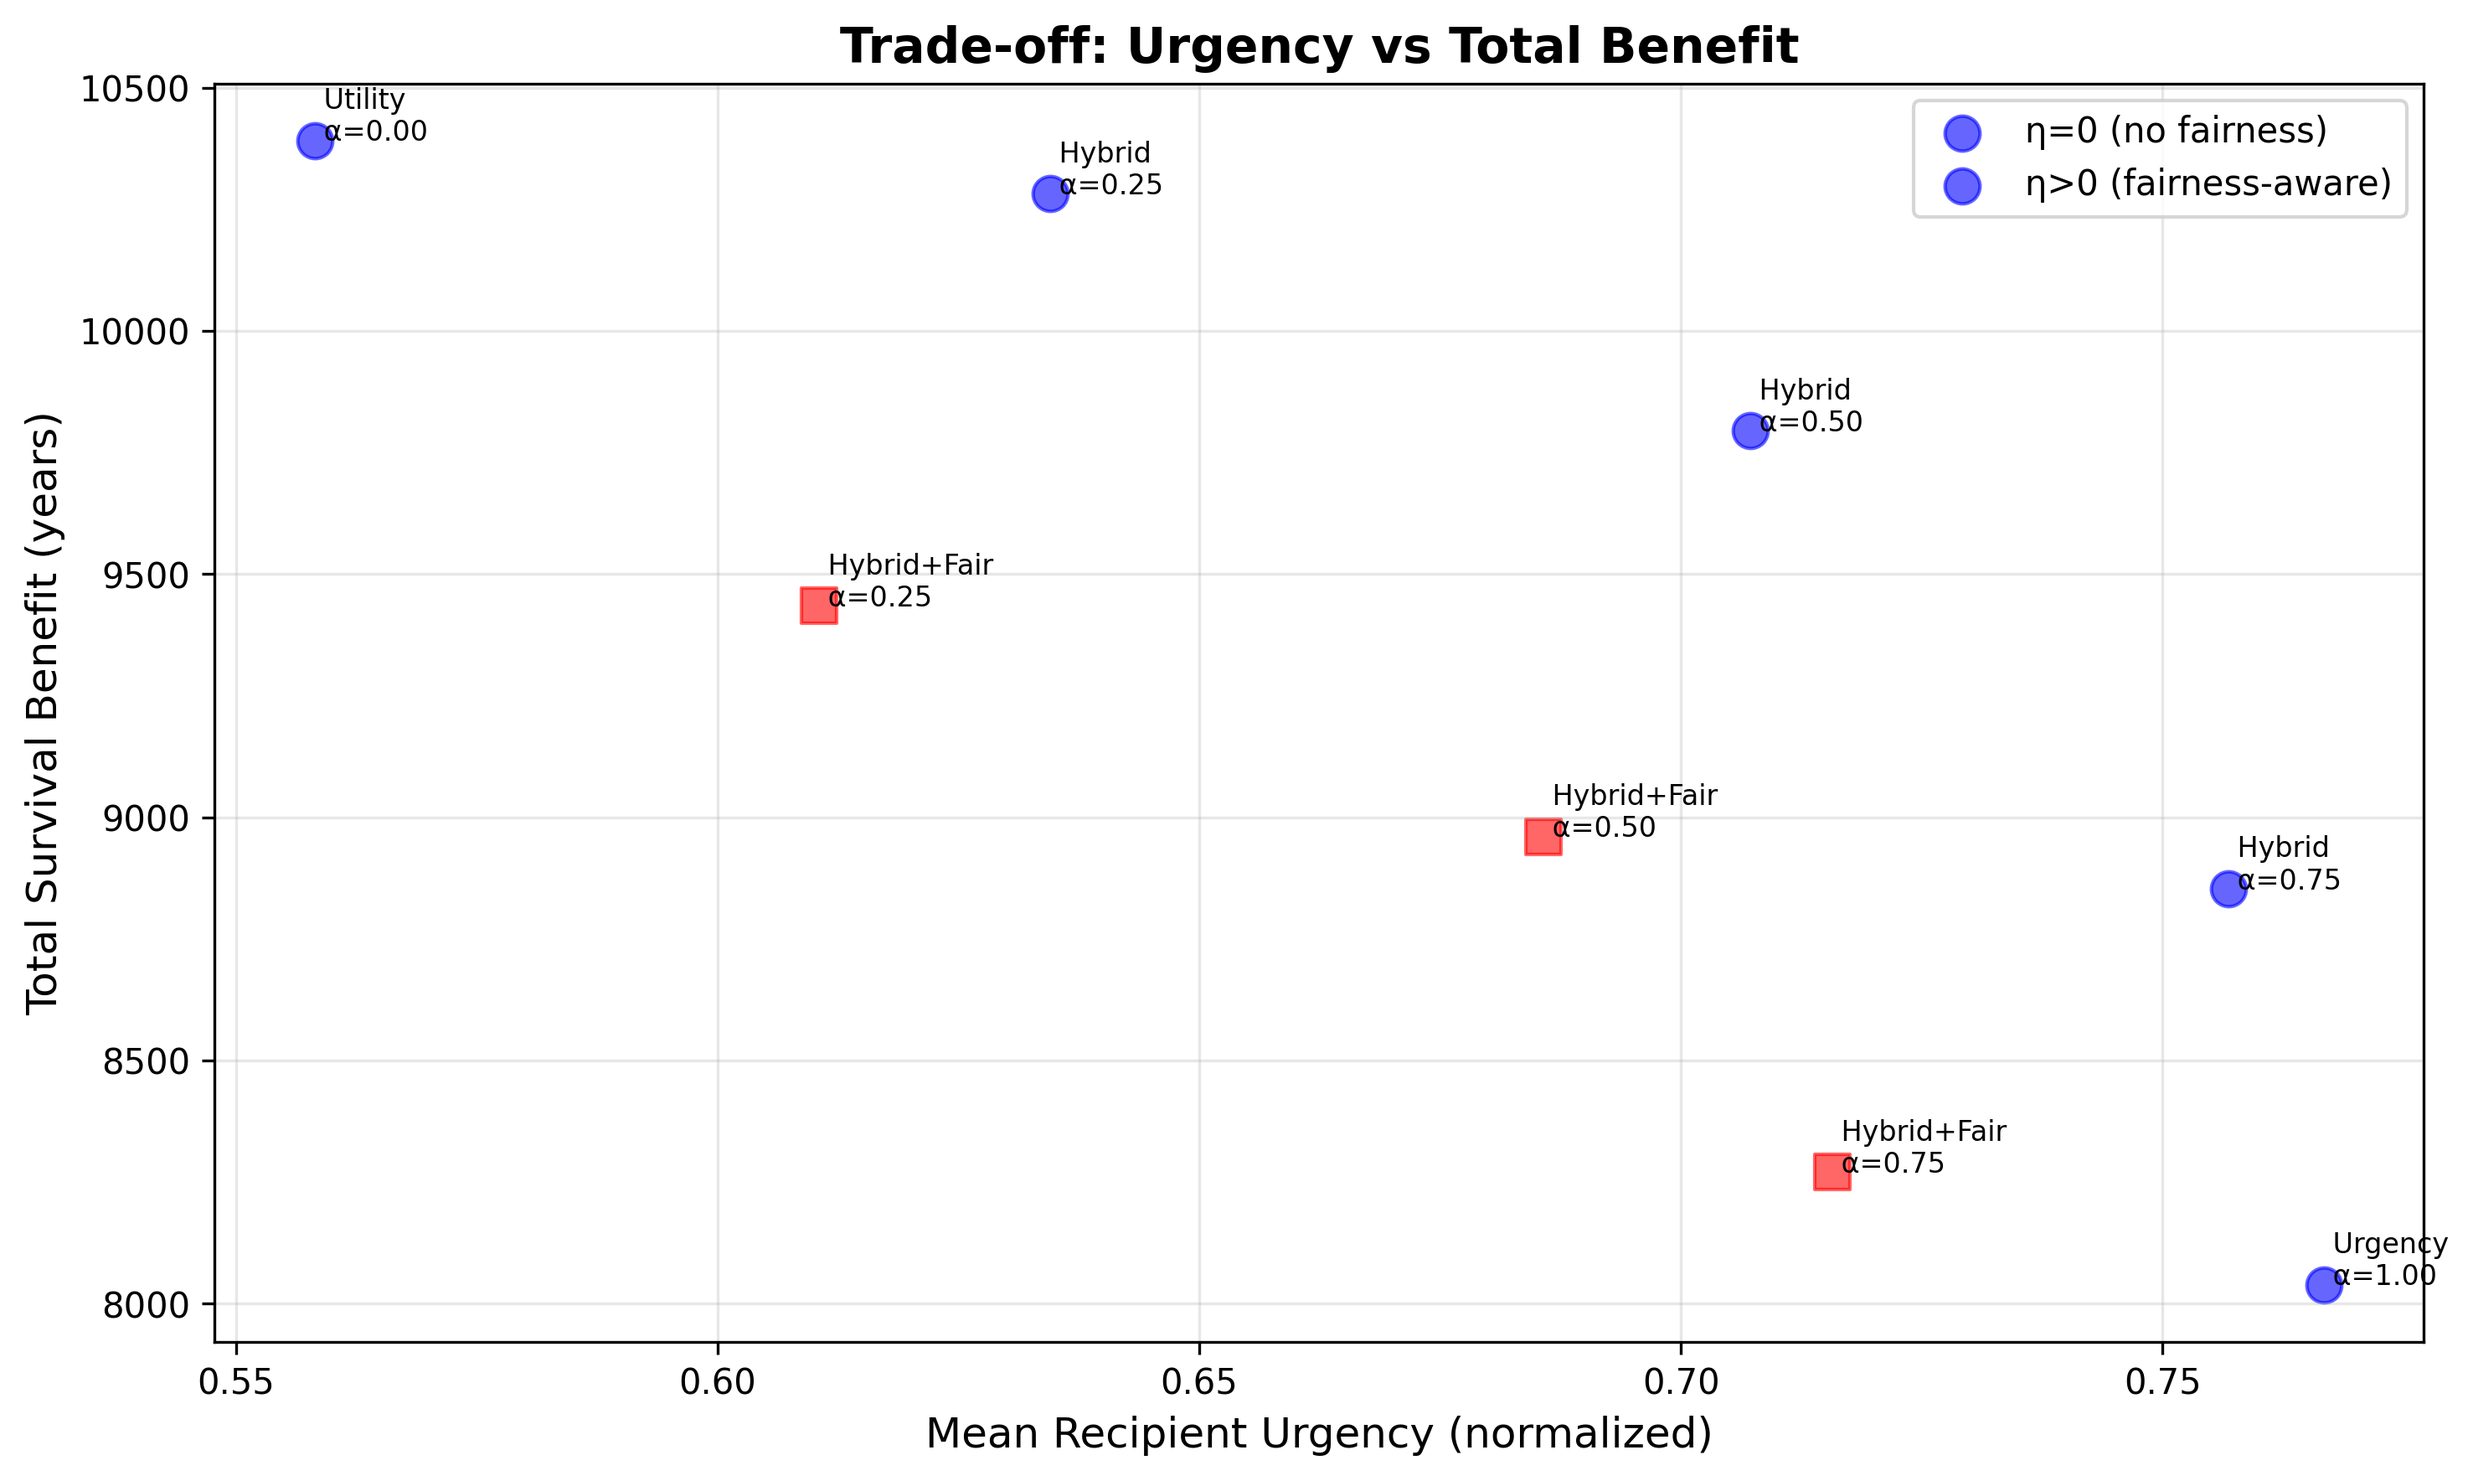
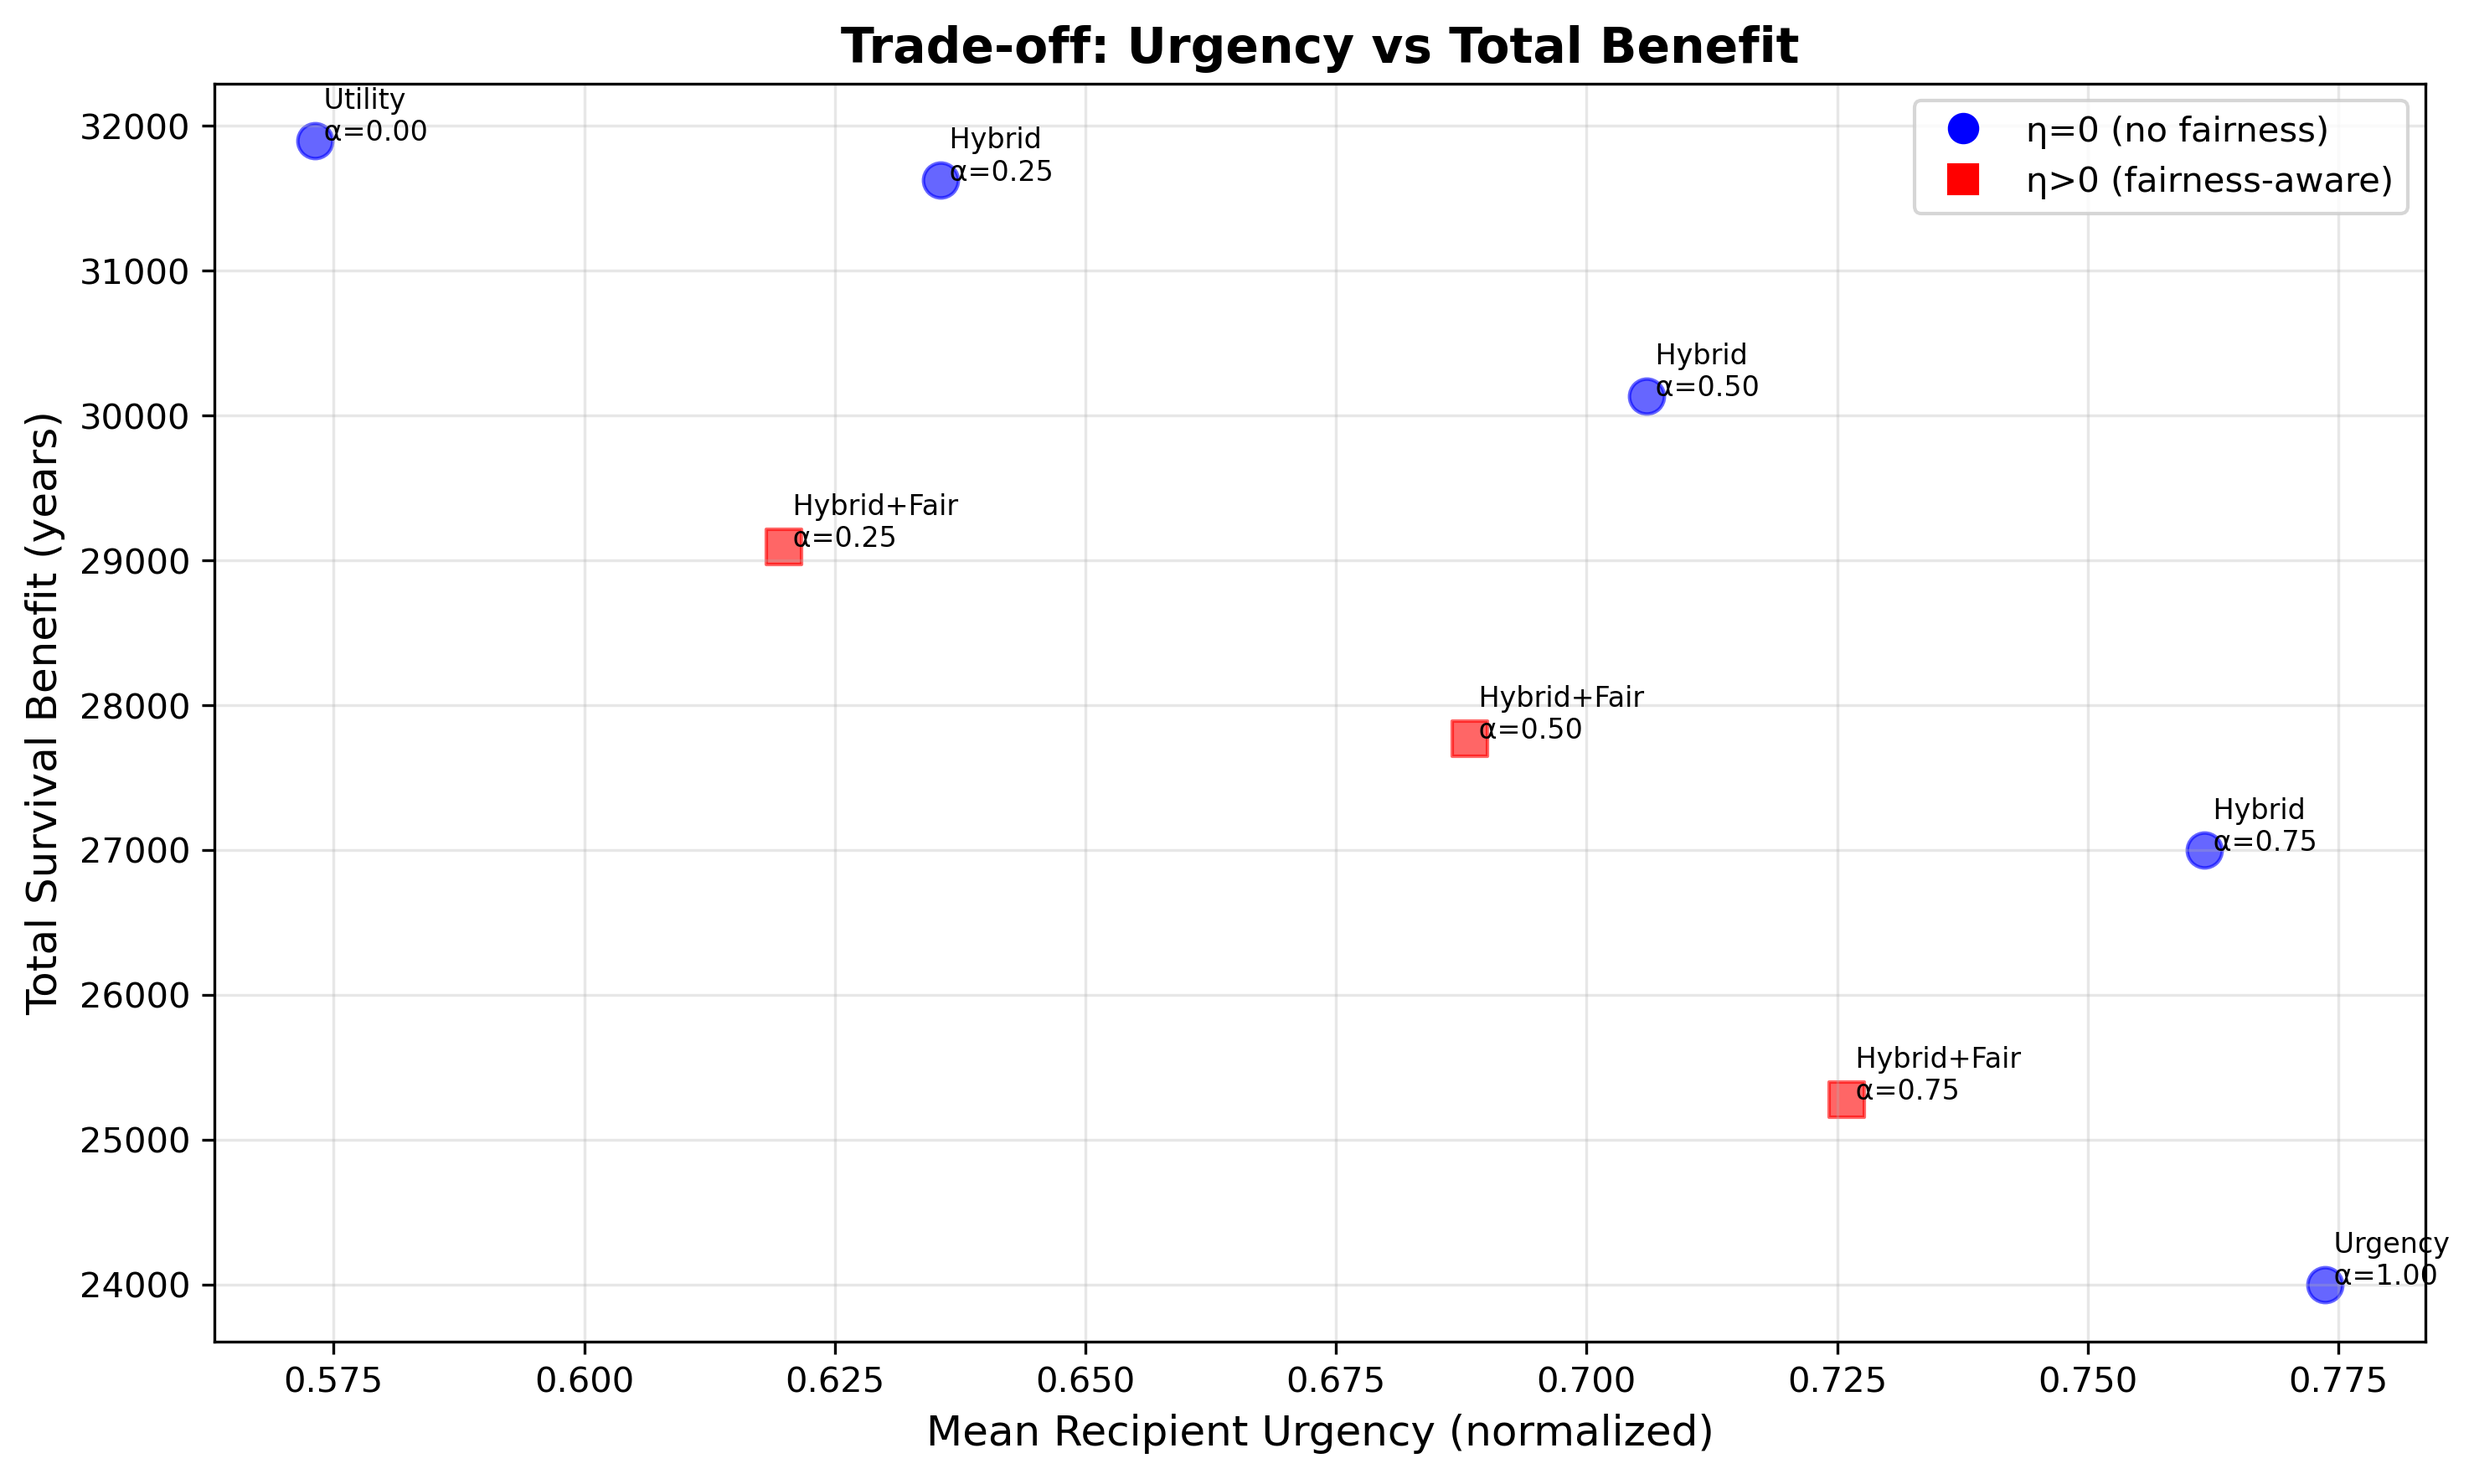
generate plots and update plot legends, generate analysis

diff --git a/scripts/generate_plots.py b/scripts/generate_plots.py
@@ -6,6 +6,9 @@ import argparse
 import pandas as pd
 import matplotlib.pyplot as plt
 import os
+import matplotlib.lines as mlines
+import matplotlib.patches as mpatches
+
 
 def main():
     ap = argparse.ArgumentParser()
@@ -36,7 +39,17 @@ def main():
     plt.ylabel('Total Survival Benefit (years)', fontsize=12)
     plt.title('Trade-off: Urgency vs Total Benefit', fontsize=14, fontweight='bold')
     plt.grid(True, alpha=0.3)
-    plt.legend(['η=0 (no fairness)', 'η>0 (fairness-aware)'], loc='best')
+
+    # Legend handles that match your plot markers
+    handle_no_fair = mlines.Line2D([], [], 
+                                color='blue', marker='o', linestyle='None',
+                                markersize=8, label='η=0 (no fairness)')
+
+    handle_fair = mlines.Line2D([], [], 
+                                color='red', marker='s', linestyle='None',
+                                markersize=8, label='η>0 (fairness-aware)')
+
+    plt.legend(handles=[handle_no_fair, handle_fair], loc='best')
     plt.tight_layout()
     outpath = os.path.join(args.outdir, 'tradeoff_urgency_vs_benefit.png')
     plt.savefig(outpath, dpi=300, bbox_inches='tight')
@@ -63,7 +76,17 @@ def main():
     plt.ylabel('Total Survival Benefit (years)', fontsize=12)
     plt.title('Trade-off: Fairness vs Total Benefit', fontsize=14, fontweight='bold')
     plt.grid(True, alpha=0.3)
-    plt.legend(['η=0 (no fairness)', 'η>0 (fairness-aware)'], loc='best')
+    # Legend handles that match your plot markers
+    handle_no_fair = mlines.Line2D([], [], 
+                                color='blue', marker='o', linestyle='None',
+                                markersize=8, label='η=0 (no fairness)')
+
+    handle_fair = mlines.Line2D([], [], 
+                                color='red', marker='s', linestyle='None',
+                                markersize=8, label='η>0 (fairness-aware)')
+
+    plt.legend(handles=[handle_no_fair, handle_fair], loc='best')
+    # plt.legend(['η=0 (no fairness)', 'η>0 (fairness-aware)'], loc='best')
     plt.tight_layout()
     outpath = os.path.join(args.outdir, 'tradeoff_fairness_vs_benefit.png')
     plt.savefig(outpath, dpi=300, bbox_inches='tight')
@@ -94,6 +117,10 @@ def main():
     ax2.grid(True, alpha=0.3, axis='y')
     
     plt.tight_layout()
+    blue_patch = mpatches.Patch(color='blue', label='η=0 (no fairness)')
+    red_patch = mpatches.Patch(color='red', label='η>0 (fairness-aware)')
+
+    fig.legend(handles=[blue_patch, red_patch], loc='upper center', ncol=2)
     outpath = os.path.join(args.outdir, 'summary_bars.png')
     plt.savefig(outpath, dpi=300, bbox_inches='tight')
     print(f"Saved {outpath}")
